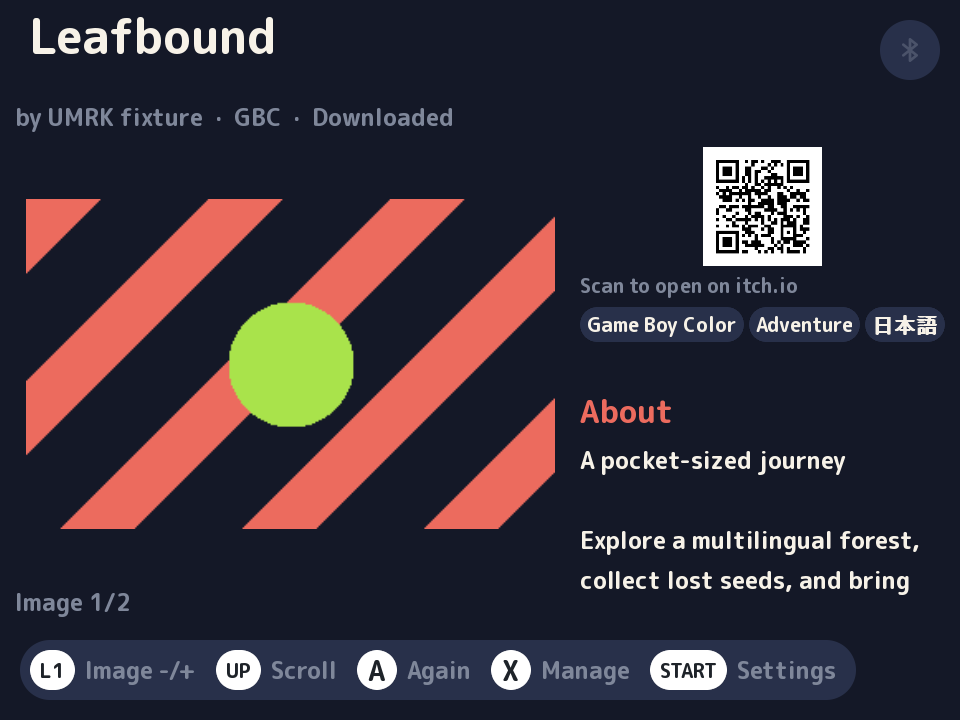
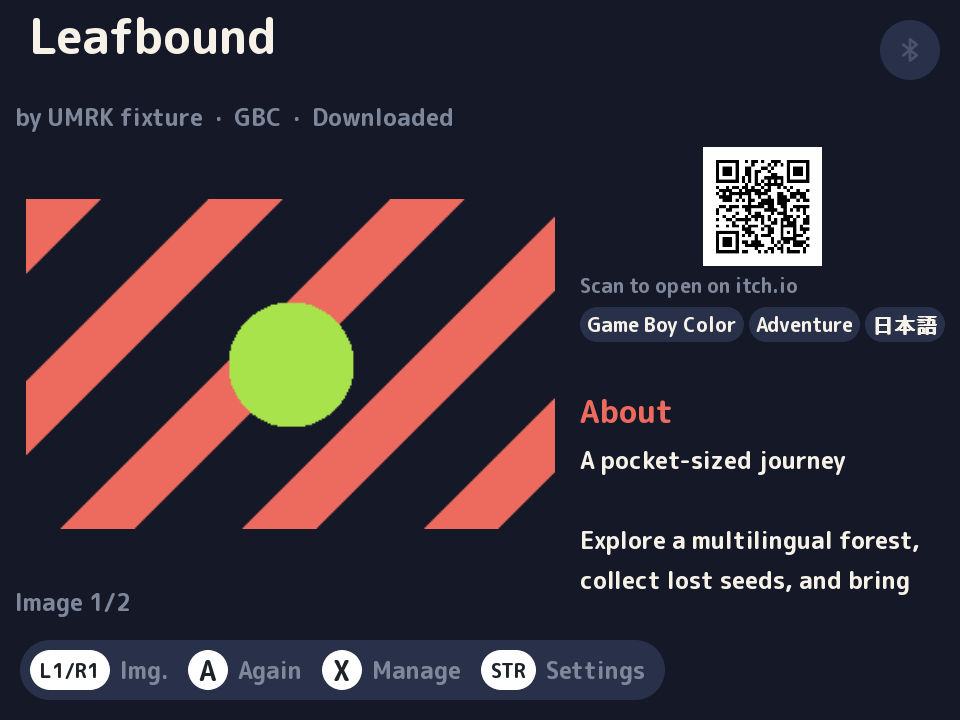
fix(ui): align detail footer hints

Changed region(s): [[0.0625, 0.8861, 0.9062, 0.9778]]

diff --git a/internal/catui/detail_screen.go b/internal/catui/detail_screen.go
@@ -57,9 +57,9 @@ func (screen *DetailScreen) Draw() error {
 		if screen.model.Game.Downloaded {
 			footer = footer[:0]
 		}
-		footer = append(footer,
-			FooterHint{Button: ButtonL1, Label: "Image -/+", NarrowLabel: "Images"},
-			FooterHint{Button: ButtonUp, Label: "Scroll"})
+		// D-pad scrolling remains fully functional. It is conventional enough to
+		// omit from this width-constrained footer so Settings stays visible.
+		footer = append(footer, FooterHint{Button: ButtonL1, ButtonText: "L1/R1", Label: "Img."})
 		if screen.model.Game.CanDownload && !screen.model.BrowserOnly {
 			label := "Download"
 			if screen.model.Game.Downloaded {
@@ -71,10 +71,10 @@ func (screen *DetailScreen) Draw() error {
 			footer = append(footer, FooterHint{Button: ButtonA, Label: label})
 		}
 		if screen.model.Game.Downloaded {
-			footer = append(footer, FooterHint{Button: ButtonX, Label: "Manage", NarrowLabel: "Files"})
+			footer = append(footer, FooterHint{Button: ButtonX, Label: "Manage"})
 		}
 	}
-	footer = append(footer, FooterHint{Button: ButtonStart, Label: "Settings", NarrowLabel: "Set"})
+	footer = append(footer, FooterHint{Button: ButtonStart, ButtonText: "STR", Label: "Settings", NarrowLabel: "Set"})
 	frame, err := screen.ui.BeginScreen(ScreenSpec{
 		Title:           screen.model.Game.Title,
 		SubHeaderHeight: screen.ctx.FontHeight(FontSmall) + screen.ctx.Scale(10),

diff --git a/scripts/public-assets-check.py b/scripts/public-assets-check.py
@@ -13,8 +13,8 @@ EXPECTED = {
[10 lines of base64/hex data omitted]

diff --git a/docs/screenshots/README.md b/docs/screenshots/README.md
@@ -19,8 +19,8 @@ and copies only the eight locked public states below.
 | --- | --- | --- |
[9 lines of base64/hex data omitted]
